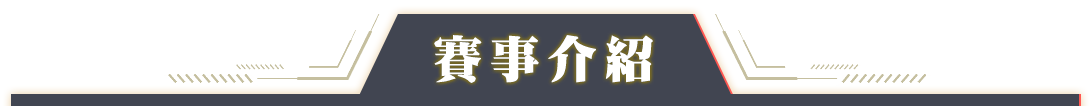
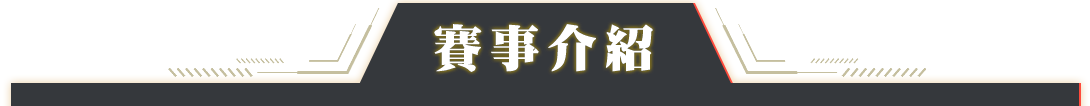
1028

Changed region(s): [[0.0, 0.0, 0.9982, 0.9057]]

diff --git a/css/style.css b/css/style.css
@@ -451,7 +451,7 @@ canvas {
     background-size: 100%;
     width: 100%;
     max-width: 1090px;
-    margin: 0.5% auto 0;
+    margin: 2% auto 0;
     padding-top: 100px;
     z-index: 5;
 }
@@ -483,7 +483,7 @@ canvas {
     width: 100%;
     max-width: 1090px;
     margin: 0 auto;
-    padding-bottom: 30px;
+    padding-bottom: 33px;
     z-index: 5;
 }
 
@@ -493,7 +493,7 @@ canvas {
     background-size: 100%;
     width: 100%;
     max-width: 1090px;
-    margin: 0 auto;
+    margin: 0.5% auto 0;
     padding-bottom: 95px;
     z-index: 5;
 }
@@ -587,7 +587,7 @@ canvas {
     background-color: rgba(101,84,63,0.2);
     text-align: center;
     padding: 2.5% 0;
-    min-height: 50vh;
+    min-height: 48vh;
 }
 
 .tab1 h3,.tab2 h3{
@@ -601,7 +601,7 @@ canvas {
 .tab1 h5,.tab2 h5{
     font-size: 1.6rem;
     line-height: 2rem;
-    margin: 2.5% 0 ;
+    margin: 2% 0 ;
     color: #e1caab;
     font-weight: 500;
 }
@@ -766,7 +766,7 @@ canvas {
 .SEC3,.SEC4 {
     display: block;
     z-index: 5;
-    margin-top: 1%;
+    margin-top: 3%;
 }
 
 
@@ -841,7 +841,7 @@ canvas {
 .SEC_NOT{
     display: block;
     z-index: 5;
-    margin-top: 1%;
+    margin-top: 3%;
 }
 
 .not_tit {
